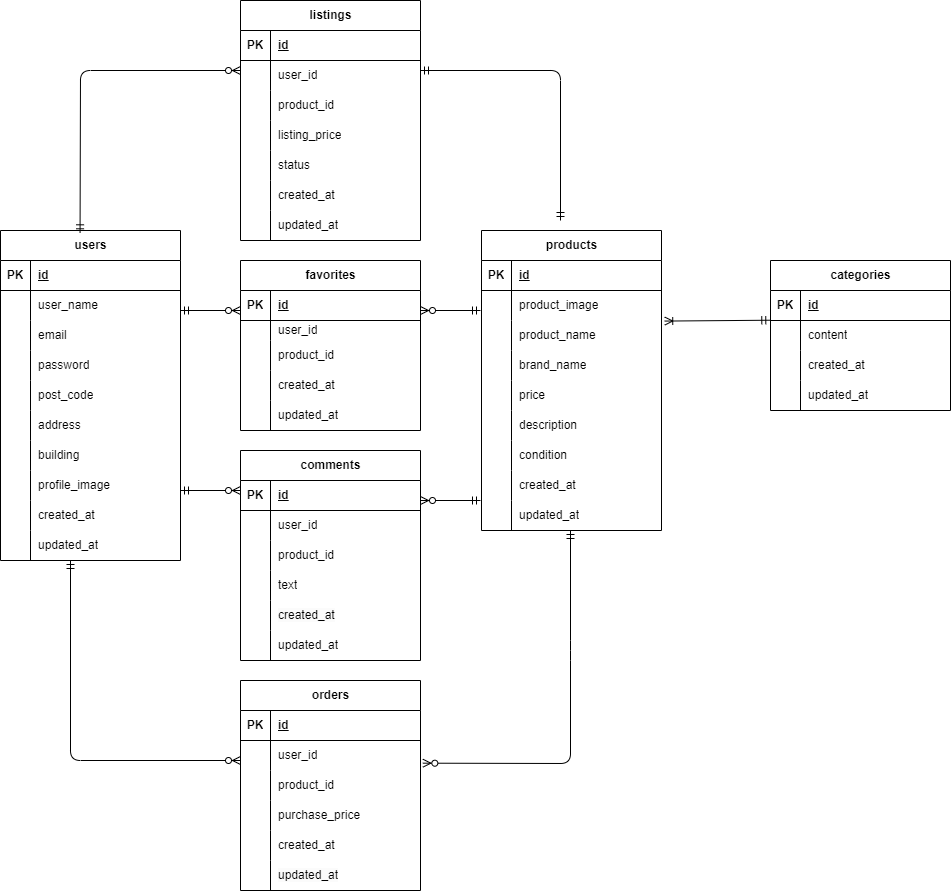
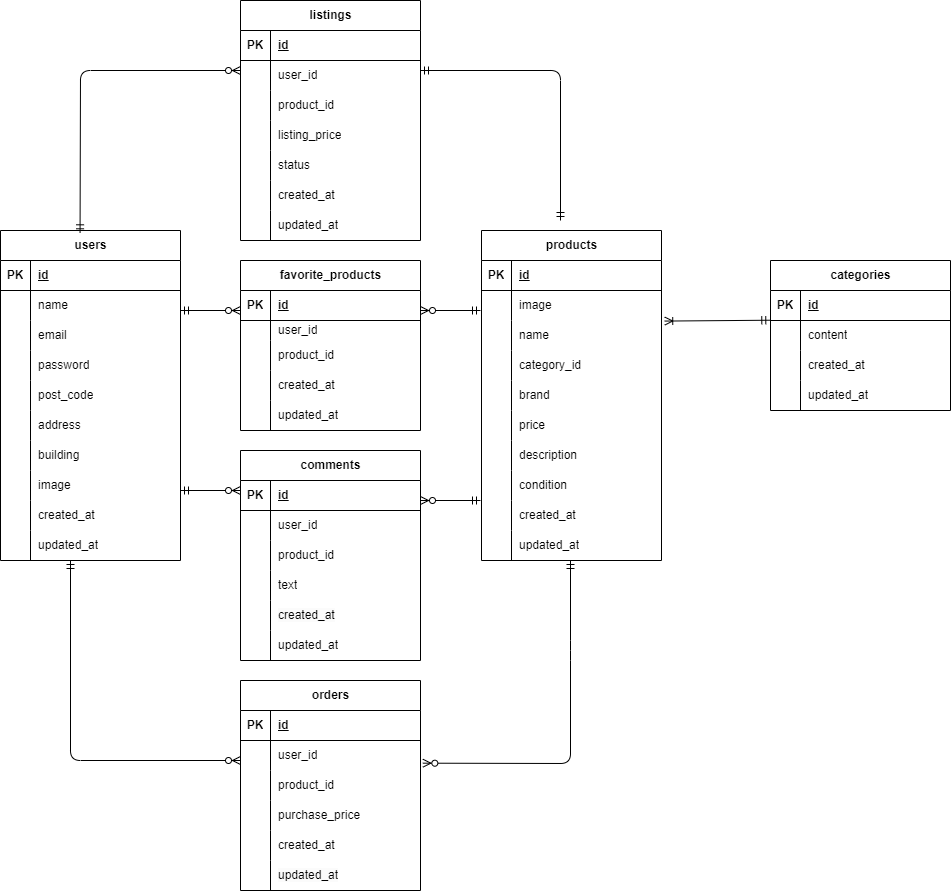
migration再実行

diff --git a/src/public/css/mypage.css b/src/public/css/mypage.css
@@ -1,0 +1,81 @@
+.container {
+    max-width: 1540px;
+    margin: 0 auto;
+    width: 100%;
+    padding: 40px;
+
+}
+
+.profile-iamge__inner {
+    width: 100px;
+    height: 100px;
+    border-radius: 50%;
+}
+
+.profile-image-edit {
+    margin-left: 20px;
+}
+
+.profile-image-edit__label {
+    display: block;
+    border: 1px solid #fb8e8e;
+    color: #fb8e8e;
+    background: #fff;
+    border-radius: 8px;
+    height: 30px;
+}
+
+
+.product-index {
+    display: flex;
+    justify-content: center;
+    border-bottom: 2px solid #aaa;
+}
+
+.product-index__item a {
+    text-decoration: none;
+    color: #aaa;
+    margin-right: 50px;
+
+}
+
+.product-index__item a:active {
+    color: #FF0000;
+}
+
+.product-index__disabled {
+    color: #aaa;
+    pointer-events: none;
+    text-decoration: none;
+    cursor: default;
+}
+
+.product-list {
+    display: grid;
+    gap: 2rem;
+    grid-template-columns: repeat(4, 1fr);
+    width: 80%;
+    margin: 0 auto;
+
+}
+
+.product-list__card {
+    border: 1px solid #e7e7e7;
+    border-radius: 5px;
+    box-shadow: 0 0 10px rgba(0, 0, 0, 0.1);
+}
+
+.product-list__card img {
+    width: 100%;
+    height: auto;
+}
+
+.product-list__card a {
+    text-decoration: none;
+}
+
+.product-list__card-title {
+    display: flex;
+    justify-content: space-between;
+    padding: 5px 10px;
+}

diff --git a/src/public/css/profile.css b/src/public/css/profile.css
@@ -19,28 +19,28 @@
     text-align: center;
 }
 
-.profile__heading-img {
+.profile-image {
     display: flex;
 }
 
-.profile__heading-img img {
-    display: block;
+.profile-iamge__inner {
     width: 100px;
     height: 100px;
     border-radius: 50%;
 }
+ 
+.profile-image-edit {
+margin-left: 20px;
+}
 
-.profile-edit__button {
+.profile-image-edit__label {
     display: block;
     border: 1px solid #fb8e8e;
     color: #fb8e8e;
     background: #fff;
     border-radius: 8px;
-    padding: 5px;
-    margin-left: 20px;
+    height: 30px;
 }
-
-
 
 .profile-form__group {
     margin-bottom: 20px;
@@ -50,6 +50,7 @@
     display: block;
     text-align: left;
     font-weight: bold;
+    padding-bottom: 5px;
 }
 
 .profile-form__error-message {

diff --git a/src/resources/views/mypage/mypage.blade.php b/src/resources/views/mypage/mypage.blade.php
@@ -1,0 +1,45 @@
+@extends('layouts.app')
+
+@section('css')
+<link rel="stylesheet" href=" {{ asset('css/products.css') }}">
+@endsection
+
+@section('content')
+    <div class="container">
+        <div class="profile-image">
+            <div class="profile-image__inner">
+                <img src="" alt="profile-image">
+            </div>
+            <div class="profile-image-edit">
+                <input type="file" name="avatar" id="avatar" style="display:none;">
+                <label for="avatar" class="profile-image-edit__label">画像を選択する</label>
+            </div>
+        </div>
+        <div class="product-index">
+            <div class="product-index__item">
+                <a href="{{ url('/') }}">おすすめ</a>
+            </div>
+            <div class="product-index__item">
+                @auth
+                <a href="{{ url('/?page=mylist') }}">マイリスト</a>
+                @else
+                <span class="product-index__disabled">マイリスト</span>
+                @endauth
+            </div>
+        </div>
+        <div class="product-list">            
+        @foreach ($products as $product)
+            <div class="product-list__item">
+                <div class="product-list__card">
+                    <a href="">
+                        <img src="{{ asset('storage/image/' .$product->image) }}" alt="{{ $product->name }}">
+                    </a>
+                </div>
+                <div class="product-list__card-title">
+                    <span class="product-list__name">{{ $product->name }}</span>
+                </div>
+            </div>
+        @endforeach
+        </div>         
+    </div>
+@endsection

diff --git a/src/resources/views/mypage/profile.blade.php b/src/resources/views/mypage/profile.blade.php
@@ -1,7 +1,7 @@
 @extends('layouts.app')
 
 @section('css')
-<link rel="stylesheet" href="{{ asset('css/profile_edit.css') }}">
+<link rel="stylesheet" href="{{ asset('css/profile.css') }}">
 @endsection
 
 @section('content')
@@ -13,11 +13,17 @@
                 <div class="profile__heading-ttl">
                     <h2>プロフィール設定</h2>
                 </div>
-                <div class="profile__heading-img">
+            </div>
+            <div class="profile-image">
+                <div class="profile-image__inner">
                     <img src="" alt="profile-image">
-                    <button class="profile-edit__button">画像を選択する</button>
+                </div>
+                <div class="profile-image-edit">
+                    <input type="file" name="avatar" id="avatar" style="display:none;">
+                    <label for="avatar" class="profile-image-edit__label">画像を選択する</label>
                 </div>
             </div>
+            
   
             <div class="profile-form__group">
                 <label class="profile-form__label" for="name">ユーザー名</label>          

diff --git a/src/database/migrations/2025_05_10_005341_create_favorite_products_table.php b/src/database/migrations/2025_05_10_005341_create_favorite_products_table.php
@@ -4,7 +4,7 @@ use Illuminate\Database\Migrations\Migration;
 use Illuminate\Database\Schema\Blueprint;
 use Illuminate\Support\Facades\Schema;
 
-class CreateSellsTable extends Migration
+class CreateFavoriteProductsTable extends Migration
 {
     /**
      * Run the migrations.
@@ -13,12 +13,10 @@ class CreateSellsTable extends Migration
      */
     public function up()
     {
-        Schema::create('sells', function (Blueprint $table) {
+        Schema::create('favorite_products', function (Blueprint $table) {
             $table->id();
             $table->foreignId('user_id')->constrained()->cascadeOnDelete();
             $table->foreignId('product_id')->constrained()->cascadeOnDelete();
-            $table->integer('listing_price');
-            $table->string('status');
             $table->timestamps();
         });
     }
@@ -30,6 +28,6 @@ class CreateSellsTable extends Migration
      */
     public function down()
     {
-        Schema::dropIfExists('sells');
+        Schema::dropIfExists('favorite_products');
     }
 }

diff --git a/src/database/migrations/2025_05_07_233415_create_listings_table.php b/src/database/migrations/2025_05_07_233415_create_listings_table.php
@@ -4,7 +4,7 @@ use Illuminate\Database\Migrations\Migration;
 use Illuminate\Database\Schema\Blueprint;
 use Illuminate\Support\Facades\Schema;
 
-class CreateFavoritesTable extends Migration
+class CreateListingsTable extends Migration
 {
     /**
      * Run the migrations.
@@ -13,10 +13,12 @@ class CreateFavoritesTable extends Migration
      */
     public function up()
     {
-        Schema::create('favorites', function (Blueprint $table) {
+        Schema::create('listings', function (Blueprint $table) {
             $table->id();
             $table->foreignId('user_id')->constrained()->cascadeOnDelete();
             $table->foreignId('product_id')->constrained()->cascadeOnDelete();
+            $table->integer('listing_price');
+            $table->string('status');
             $table->timestamps();
         });
     }
@@ -28,6 +30,6 @@ class CreateFavoritesTable extends Migration
      */
     public function down()
     {
-        Schema::dropIfExists('favorites');
+        Schema::dropIfExists('listings');
     }
 }

diff --git a/src/database/migrations/2014_10_12_000000_create_users_table.php b/src/database/migrations/2014_10_12_000000_create_users_table.php
@@ -15,14 +15,14 @@ class CreateUsersTable extends Migration
     {
         Schema::create('users', function (Blueprint $table) {
             $table->id();
-            $table->string('user_name')->unique();
+            $table->string('name')->unique();
             $table->string('email')->unique();
             $table->timestamp('email_verified_at')->nullable();
             $table->string('password');
             $table->string('post_code');
             $table->string('address');
             $table->string('building');
-            $table->string('profile_image');
+            $table->string('image');
             $table->rememberToken();
             $table->timestamps();
         });

diff --git a/src/routes/web.php b/src/routes/web.php
@@ -4,6 +4,7 @@ use Illuminate\Support\Facades\Route;
 use App\Http\Controllers\ItemController;
 use App\Http\Controllers\AuthController;
 use App\Http\Controllers\SellController;
+use App\Http\Controllers\UserController;
 
 /*
 |--------------------------------------------------------------------------
@@ -17,11 +18,11 @@ use App\Http\Controllers\SellController;
 */
 
 Route::get('/', [ItemController::class, 'index']);
-Route::get('/mypage/profile', [ItemController::class, 'profile']);
 
 Route::get('/sell', [SellController::class, 'create']);
 
-
+Route::get('/mypage', [UserController::class, 'show']);
+Route::get('/mypage/profile', [UserController::class, 'update']);
 
 
 

diff --git a/src/database/migrations/2025_05_07_233205_create_products_table.php b/src/database/migrations/2025_05_07_233205_create_products_table.php
@@ -17,6 +17,7 @@ class CreateProductsTable extends Migration
             $table->id();
             $table->string('image');
             $table->string('name');
+            $table->foreignId('category_id')->constrained()->cascadeOnDelete();
             $table->integer('price');
             $table->text('description');
             $table->string('condition');

diff --git a/src/app/Http/Controllers/UserController.php b/src/app/Http/Controllers/UserController.php
@@ -1,0 +1,16 @@
+<?php
+
+namespace App\Http\Controllers;
+
+use Illuminate\Http\Request;
+
+class UserController extends Controller
+{   
+    public function show() {
+        return view('mypage.mypage');
+    }
+
+    public function update() {
+        return view('mypage.profile');
+    }
+}

diff --git a/src/app/Models/User.php b/src/app/Models/User.php
@@ -27,6 +27,11 @@ class User extends Authenticatable
         'profile_image'
     ];
 
+    public function favorites(){
+        
+        return $this->blongsToMany(Product::class,'favorite_products');
+    }
+
     /**
      * The attributes that should be hidden for serialization.
      *

diff --git a/src/app/Models/Product.php b/src/app/Models/Product.php
@@ -16,4 +16,9 @@ class Product extends Model
         'description',
         'condition'
     ]; 
+
+    public function favorete()
+    {
+        return $this->belongsToMany(User::class, 'favorite_products');
+    }
 }
